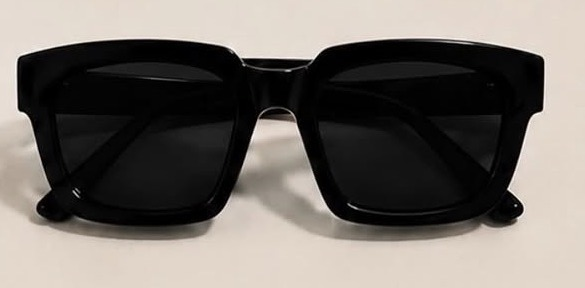
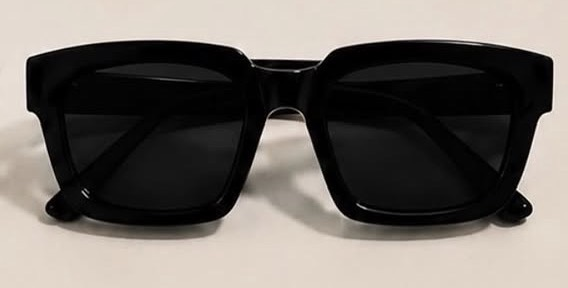
fix: use new individual product photos, switch to object-contain
Replace cropped photos with full individual shots. Use light beige
background + object-contain so glasses are never clipped.

https://claude.ai/code/session_01DQRsgBAUaX9vFn4y3WU6wL

diff --git a/app/shop/[id]/page.tsx b/app/shop/[id]/page.tsx
@@ -35,7 +35,7 @@ export default function ProductPage({ params }: { params: Promise<{ id: string }
         <div className="grid grid-cols-1 lg:grid-cols-2 gap-16">
           {/* Image / Video */}
           <AnimatedSection direction="left">
-            <div className="relative aspect-[4/3] bg-dark-2 border border-white/5 overflow-hidden group">
+            <div className="relative aspect-[4/3] bg-[#f0ede8] border border-white/5 overflow-hidden group">
               <motion.div
                 className="w-full h-full"
                 whileHover={{ scale: 1.03 }}
@@ -45,7 +45,7 @@ export default function ProductPage({ params }: { params: Promise<{ id: string }
                   src={`/products/${product.id}.jpg`}
                   alt={product.name}
                   fill
-                  className="object-cover object-center"
+                  className="object-contain p-6"
                   onError={(e) => { (e.target as HTMLImageElement).src = `/products/${product.id}.svg`; }}
                   unoptimized
                 />

diff --git a/components/ProductCard.tsx b/components/ProductCard.tsx
@@ -44,13 +44,13 @@ export default function ProductCard({ product }: Props) {
       className="group bg-dark-2 border border-white/5 hover:border-gold/30 transition-colors duration-500 overflow-hidden cursor-none"
     >
       <Link href={`/shop/${product.id}`}>
-        <div className="relative overflow-hidden aspect-[4/3] bg-dark-1">
+        <div className="relative overflow-hidden aspect-[4/3] bg-[#f0ede8]">
           <motion.div className="w-full h-full" whileHover={{ scale: 1.04 }} transition={{ duration: 0.5, ease: "easeOut" }}>
             <Image
               src={`/products/${product.id}.jpg`}
               alt={product.name}
               fill
-              className="object-cover"
+              className="object-contain p-4"
               onError={(e) => { (e.target as HTMLImageElement).src = `/products/${product.id}.svg`; }}
               unoptimized
             />
